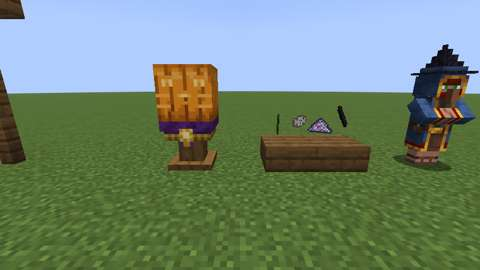
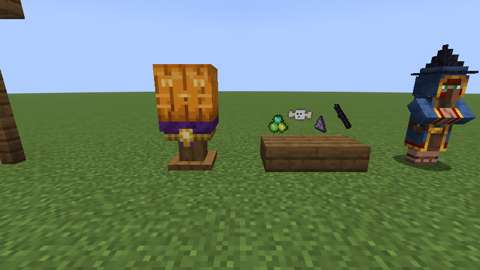
Halloween festivities: feature record results and screenshots; drop the probe workflow
Claude-Session: https://claude.ai/code/session_0126hvNUCuThWzVv935m75NC

Changed region(s): [[0.5625, 0.3852, 0.75, 0.5037]]

diff --git a/docs/features/halloween-festivities.md b/docs/features/halloween-festivities.md
@@ -69,7 +69,34 @@ Primary specialty and supported player role: farming and play; supports groups (
 No new dependencies. Every texture is drawn by code (`tools/festivity_textures.py`): the stand's wood, velvet, hem and rosette, the gravestones' stone, the cobweb, the ghost, the skull and its candle, and the four sweets. The engraving is drawn by the client with the game's own font (`GravestoneRenderer`).
 
 ## Verification
-Actual results: see the table below once CI has run.
+Actual results (1 October 2026, Minecraft 26.3, Fabric Loader 0.19.3, Fabric API 0.161.0+26.3, Temurin JDK 25.0.4, GitHub Actions):
+
+| Check | Result |
+| --- | --- |
+| `python3 scripts/check_repository.py` | Pass |
+| `python3 tools/check_mod_data.py` (now also compares the contest, costumed mobs, Peddler, gravestones, candle skull and sweets with Java, checks each gravestone's shape is its model, that the Peddler only takes emeralds for things with another route, and that `villager_trade` tags name real trades) | Pass, 435 IDs |
+| `./gradlew build` on `340bbb4` (the code of this pull request; later commits only change docs, screenshots and remove a temporary probe workflow) | Pass |
+| Game tests on the headless server, same commit: 184 in total, 10 of them new here (`FestivityGameTests`) | **All 184 pass** |
+| Client game test (real client, Mesa software rendering, CI job `client`) | **Passes** on `340bbb4`; no model or texture errors in the log; `[festivities test] engraving on the client: Here lies Jack O'Lantern, carved too deep` |
+
+The 10 new game tests (`FestivityGameTests`):
+1. through the stand itself: only the carver enters (anyone else is told whose it is), one entry per stand, nobody votes for themselves, voting again is "same", voting elsewhere moves the one vote, votes count per carver; taking the pumpkin off withdraws the entry; out of season no votes are taken and those cast stay;
+2. **activation, restart, deactivation, duplicates and earned content:** entering works out of season but voting waits; in season votes count and nothing is awarded while it runs; the saved contest keeps every vote through a save and load; when the event ends the first and second carvers get their ribbons; checking twice more gives nothing; switching the event on again the same Halloween takes no more votes; the ribbons stay;
+3. out of season no mob dresses up (and no roll is used); in season a lucky roll dresses a zombie in one of the four costumes, never twice, never over a helmet; cows don't; the costume stays after the event;
+4. a costumed zombie killed by a player drops candy and an undressed one doesn't; the candy table loads and 50 rolls give only candy;
+5. in season a wandering trader arrives in a Witch Hat, named the Halloween Peddler, with exactly four Halloween wares, all for emeralds, added once; out of season a trader is just a trader, and the Peddler keeps its hat;
+6. an unnamed Name Tag engraves nothing; a player without build rights (adventure mode) engraves nothing; a named tag engraves its name and is kept; engravings are cut to 50 characters; a broken gravestone keeps its engraving as its name, and placing it again brings the engraving back;
+7. flint and steel lights a Candle Skull (light 12) and wears by one; an empty hand snuffs it; a fire charge lights it and is used up;
+8. a Hanging Ghost hangs under planks and goes when they do; a Spun Cobweb has no collision and is not a vanilla cobweb;
+9. each sweet is always edible and gives exactly its effect for its time (Glowing 30 s, Invisibility 3 s, Jump Boost 20 s, Night Vision 45 s);
+10. the eleven recipes and all thirteen Peddler trades load.
+
+The client game test (`FestivityClientGameTests`) builds the three engraved gravestones with lit Candle Skulls, a spruce arch with Hanging Ghosts and Spun Cobwebs, a Judging Stand with a lit hand-carved pumpkin, the four sweets on a table, three costumed mobs and the Peddler, and photographs them by day, up close and at midnight. It also prints the engraving the client received.
+
+Found by CI and fixed before this record:
+- 26.3's `NestedLootTable.lootTableReference` takes a registry holder, not a key, and `ServerPlayer.drop` needs a prediction (compile errors). The candy now comes from rolling the data-driven table when a costumed mob dies, rather than from a pool added to vanilla's tables.
+- The first screenshots showed no engraving. The client had the text (now logged), but small dark lettering on dark speckled stone was lost at preview size. The stone is now pale and the lettering bigger and darker.
+- Voting after a contest was decided (the event switched off and on again the same Halloween) would have counted votes that are never awarded; it is now refused.
 
 **Not run:**
 - a person playing it in a client;

diff --git a/docs/branches/AGRICULTURE.md b/docs/branches/AGRICULTURE.md
@@ -350,6 +350,16 @@ While the Halloween event runs (by default 20 October to 3 November; the server 
 
 More to do around Halloween, and decorations and sweets for any time of year. Voting, costumed mobs and the Peddler only happen while the Halloween event runs. Details, numbers and test evidence: [../features/halloween-festivities.md](../features/halloween-festivities.md).
 
+| **The festivities:** costumed mobs, the graveyard, a haunted arch, the Judging Stand, the sweets and the Peddler | **At midnight:** the Candle Skulls and the carved pumpkin on the stand glow |
+| --- | --- |
+| ![The Halloween festivities](../images/ingame_halloween_festivities.jpg) | ![The festivities at night](../images/ingame_halloween_festivities_night.jpg) |
+| **The graveyard:** Rounded, Cross and Obelisk Gravestones, engraved, with Candle Skulls | **An engraving** up close: "Here lies Jack O'Lantern, carved too deep" |
+| ![Gravestones and Candle Skulls](../images/ingame_gravestones.jpg) | ![An engraved gravestone](../images/ingame_gravestone_engraving.jpg) |
+| **The Judging Stand** with a lit carving, the four sweets, and the Halloween Peddler in his Witch Hat | |
+| ![The Judging Stand, the sweets and the Peddler](../images/ingame_judging_stand.jpg) | |
+
+*Real screenshots from the client game test that CI runs (`FestivityClientGameTests`, software rendering, small previews).*
+
 ### The carving contest
 
 Put a hand-carved pumpkin on a **Judging Stand** and use the stand with an empty hand to enter it (only its carver can). While the event runs, everyone else uses the stand to vote for its carver: one vote per player per Halloween, moved by voting elsewhere, never for yourself. Sneak-use a stand for the standings. When the event ends, the three carvers with the most votes get the Harvest Scale's ribbons, once.
